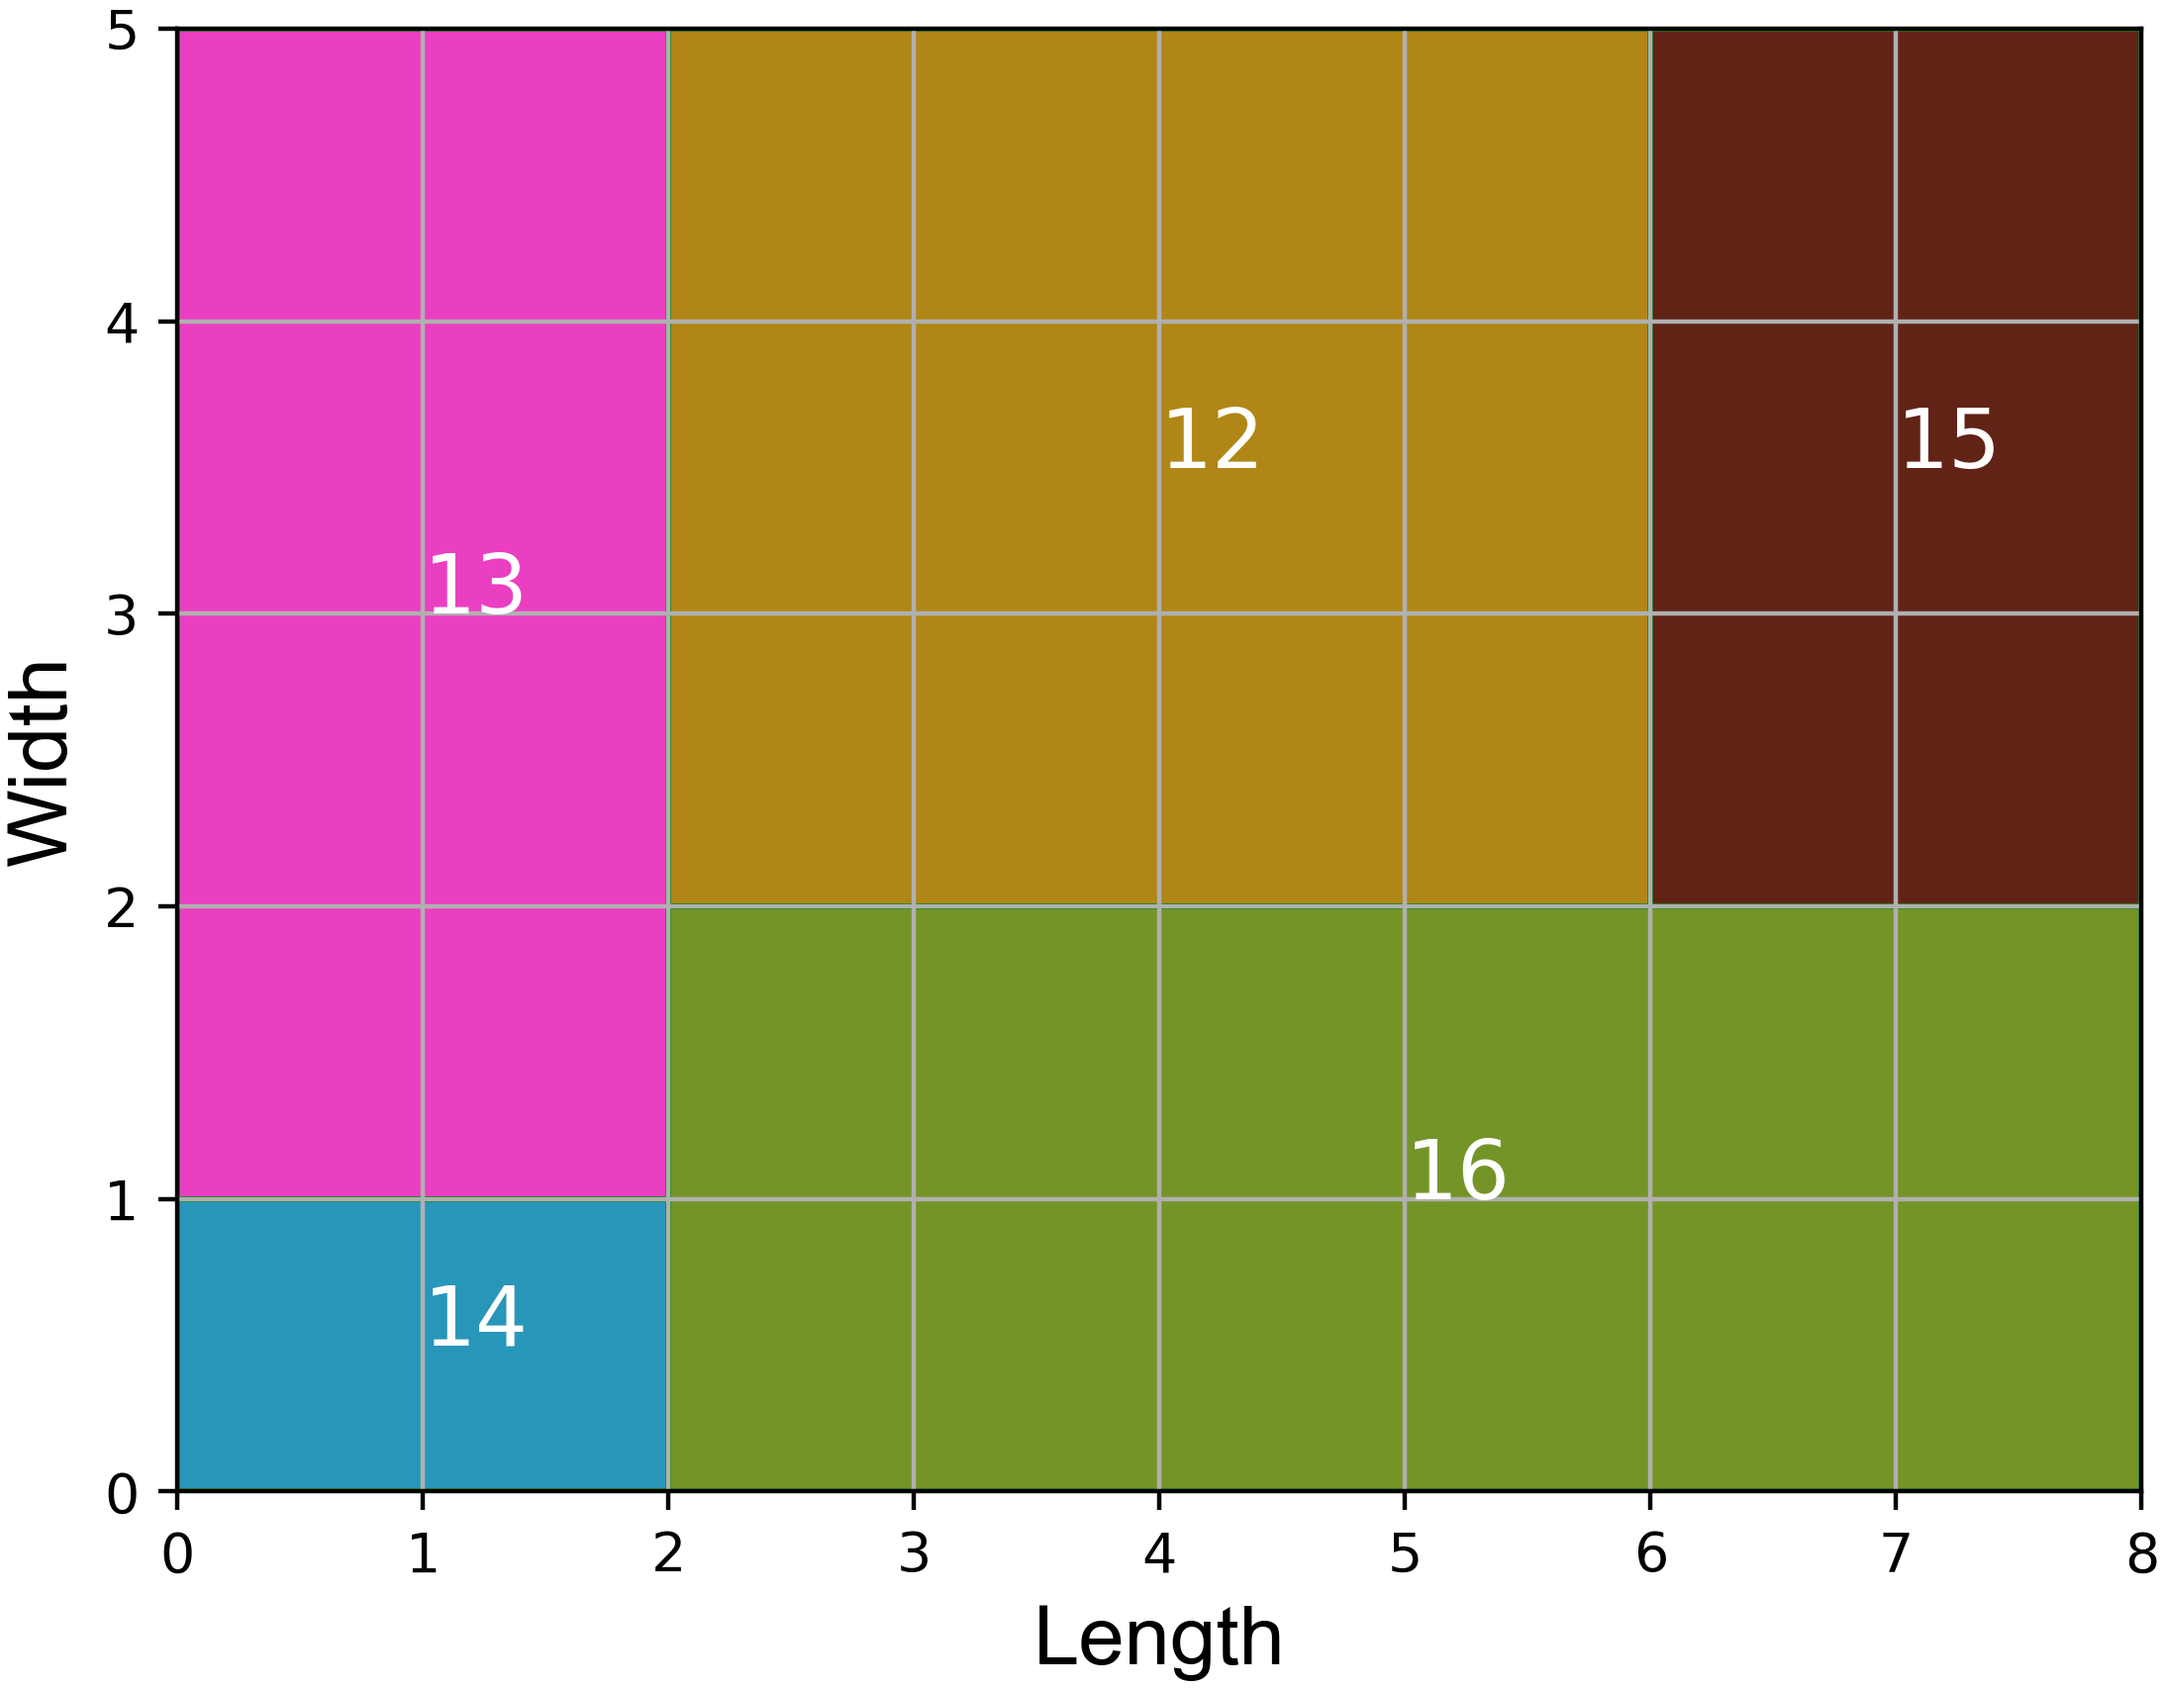
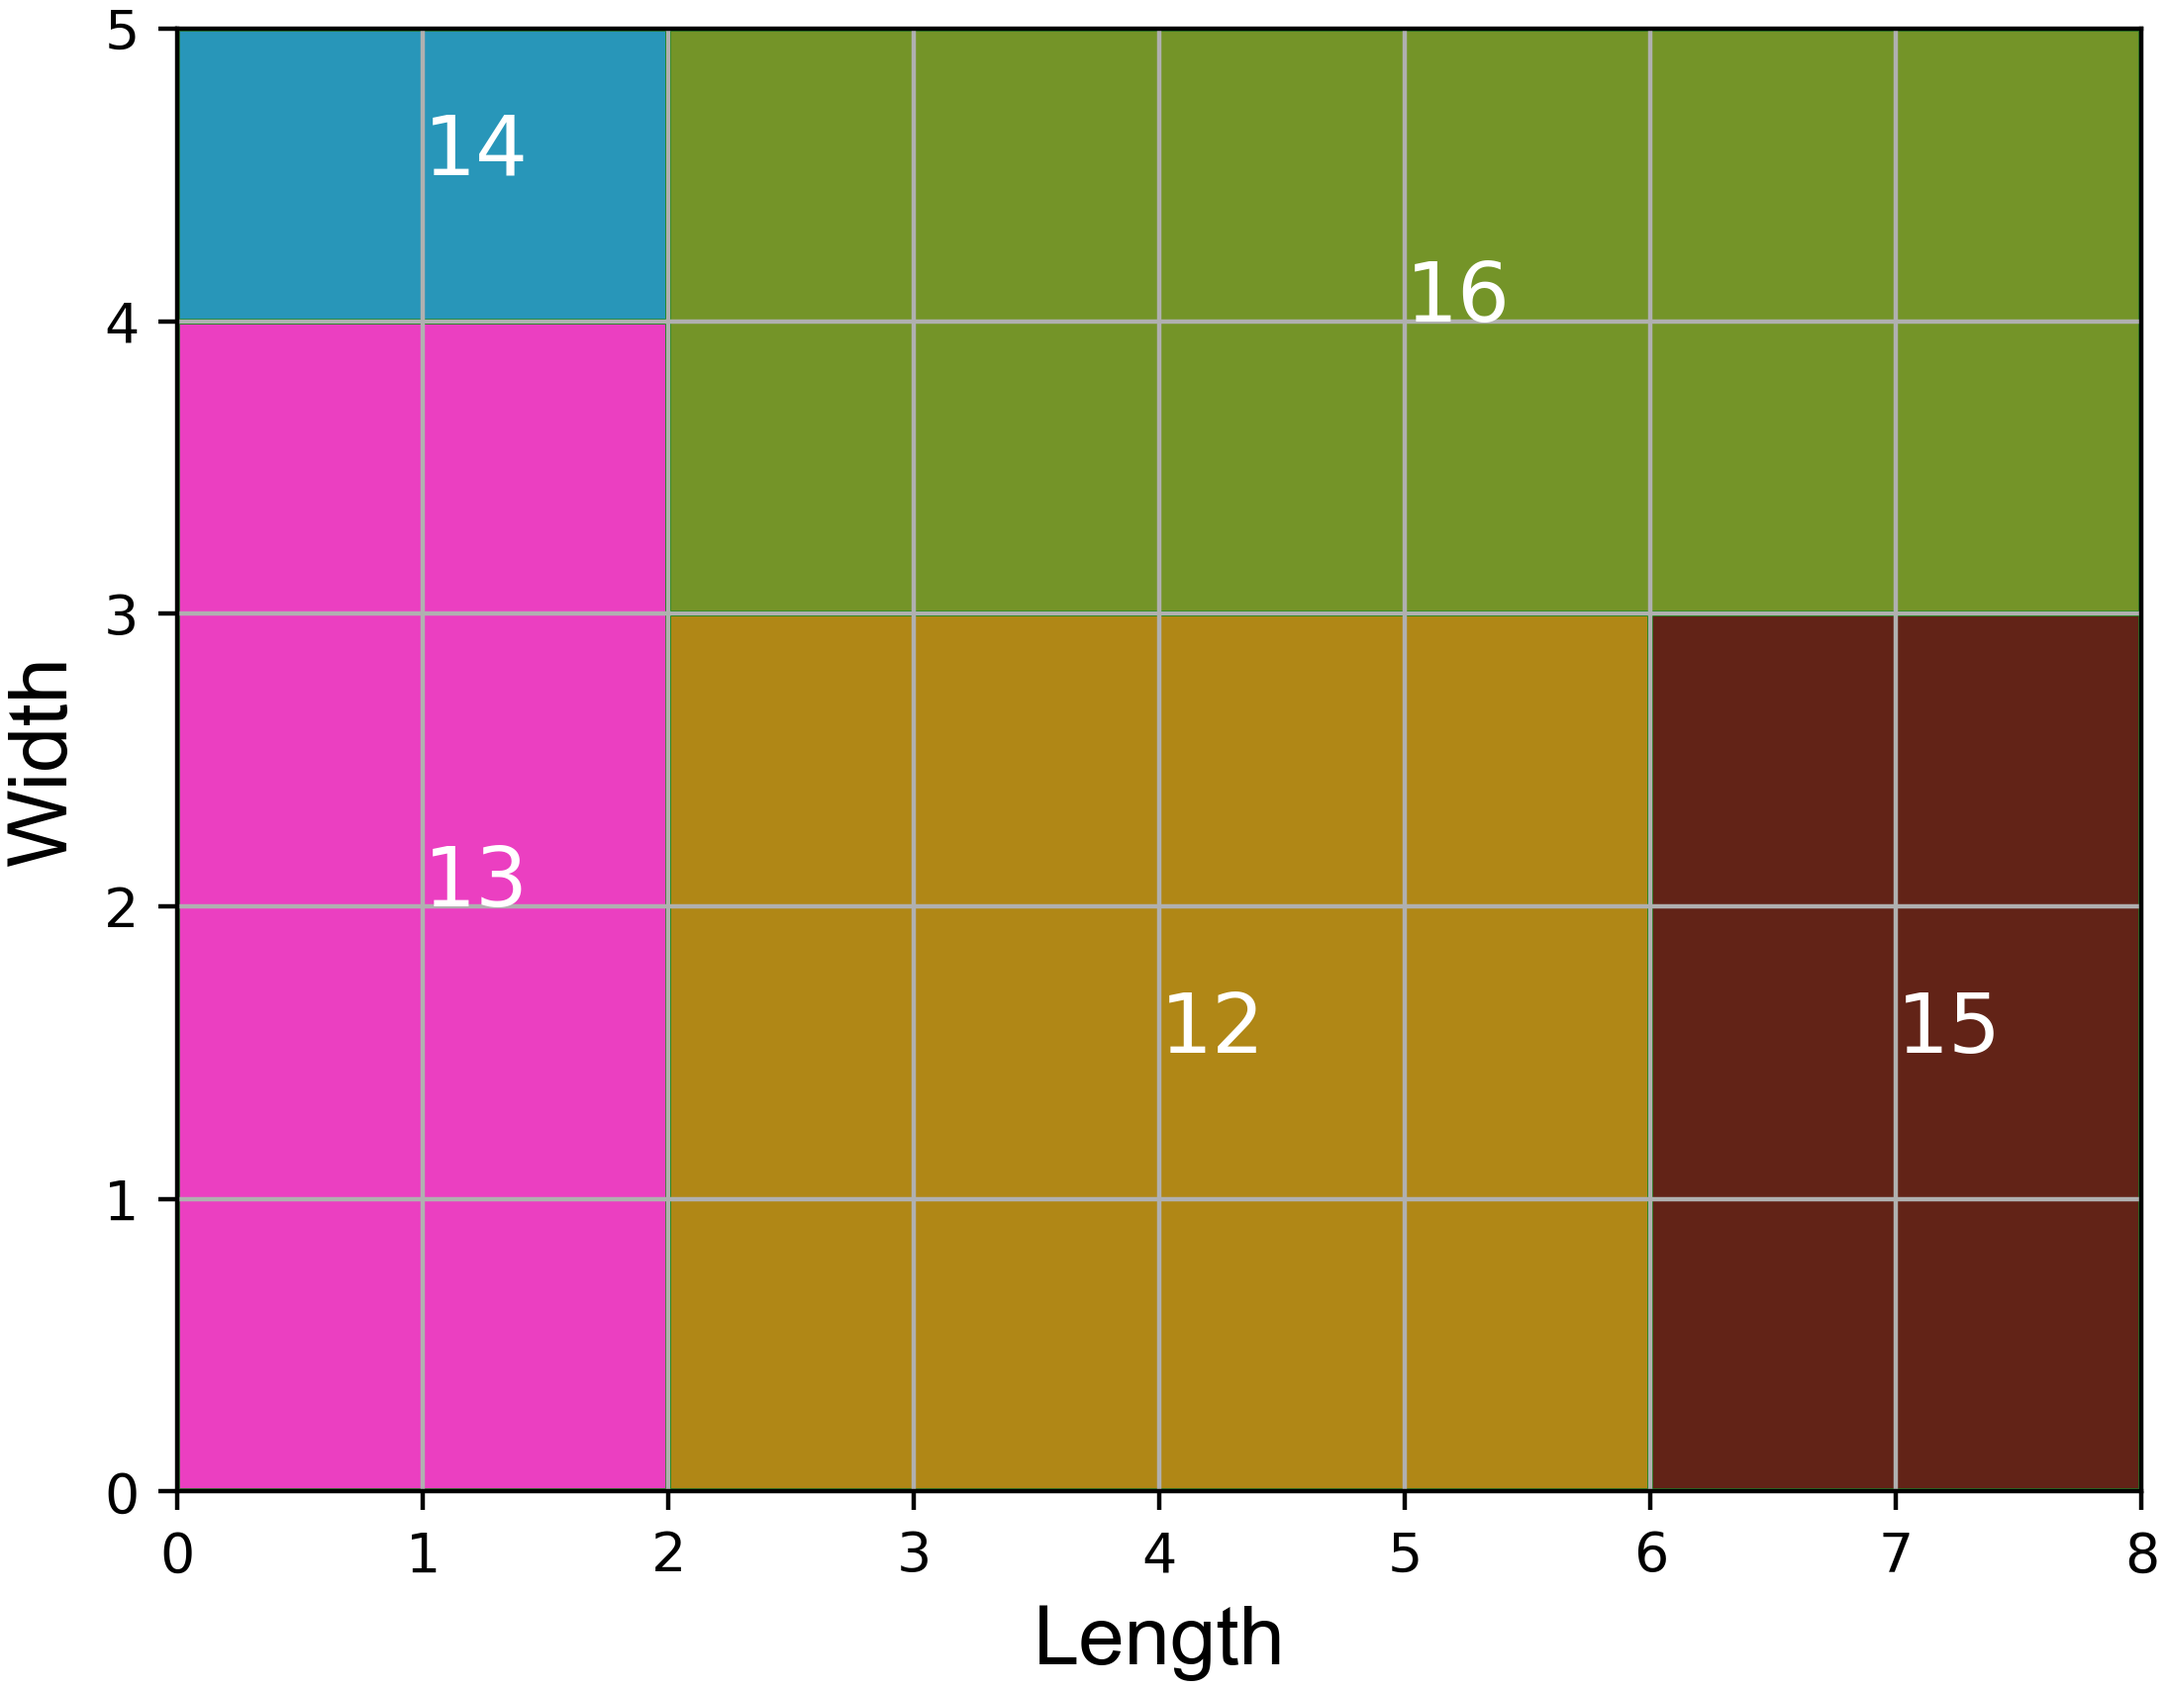
Add files via upload

diff --git a/packing_problems/2D_horiz_BPP/main.py b/packing_problems/2D_horiz_BPP/main.py
@@ -92,7 +92,6 @@ model.z = Var(model.Bins, within=Binary)
 model.obj = Objective(expr=sum(model.C_b[b]*model.z[b] for b in model.Bins), sense=minimize)
 
 # Define constraints
-
 model.no_overlap = ConstraintList()
 for i in model.Items:
     for j in model.Items:
@@ -144,6 +143,11 @@ for i in model.Items:
     for d1 in model.XY:
         model.r2.add(sum(model.r[i,d2,d1] for d2 in model.XY)==1)
         
+model.no_rotation = ConstraintList()
+for i in model.Items:
+    if I[i]['rotation'] == 'N':
+        model.no_rotation.add(model.r[i,1,1]==1)
+        
 model.item_assignment = ConstraintList()
 for i in model.Items:
     model.item_assignment.add(sum(model.p[i,b] for b in B_i[i])==1)
@@ -153,16 +157,16 @@ for i in model.Items:
     for b in B_i[i]:
         model.bin_activation.add(model.p[i,b]<=model.z[b])
         
+model.item_incomp = ConstraintList()
+for pair in I_inc:
+    for b in list(set(B_i[pair[0]]) & set(B_i[pair[1]])):
+        model.item_incomp.add(model.p[pair[0],b]+model.p[pair[1],b]<=1)
+        
 model.symmetry_breaking = ConstraintList()
 for t,v in B_t.items():
     for b in range(0,len(v)-1):
         model.symmetry_breaking.add(model.z[v[b+1]]<=model.z[v[b]])
         
-model.item_incomp = ConstraintList()
-for pair in I_inc:
-    for b in list(set(B_i[pair[0]]) & set(B_i[pair[1]])):
-        model.item_incomp.add(model.p[pair[0],b]+model.p[pair[1],b]<=1)
-
 # Solve the problem
 solver = SolverFactory('gurobi')
 solver.solve(model)  
